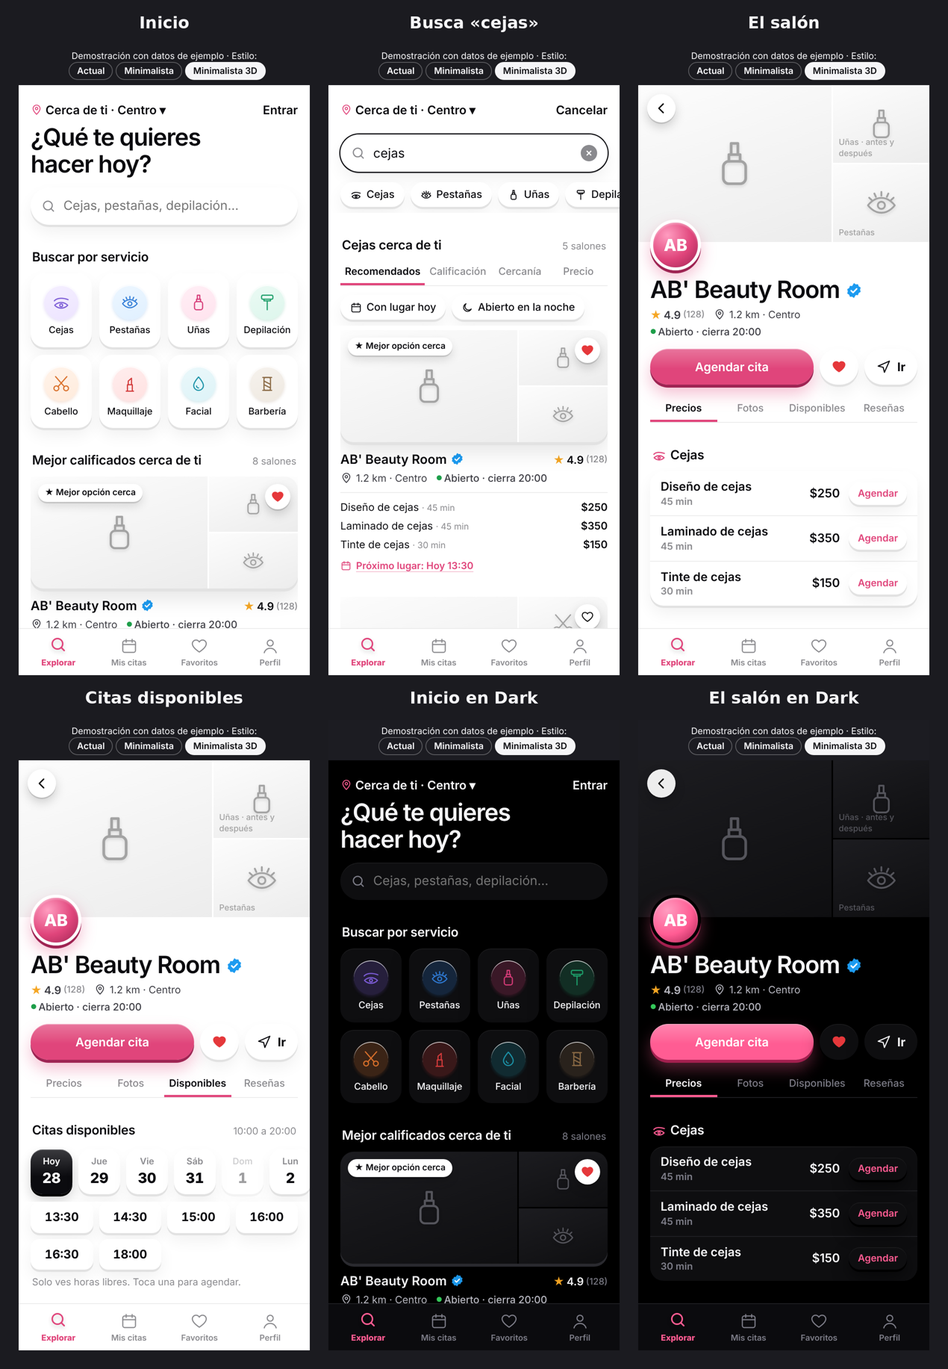
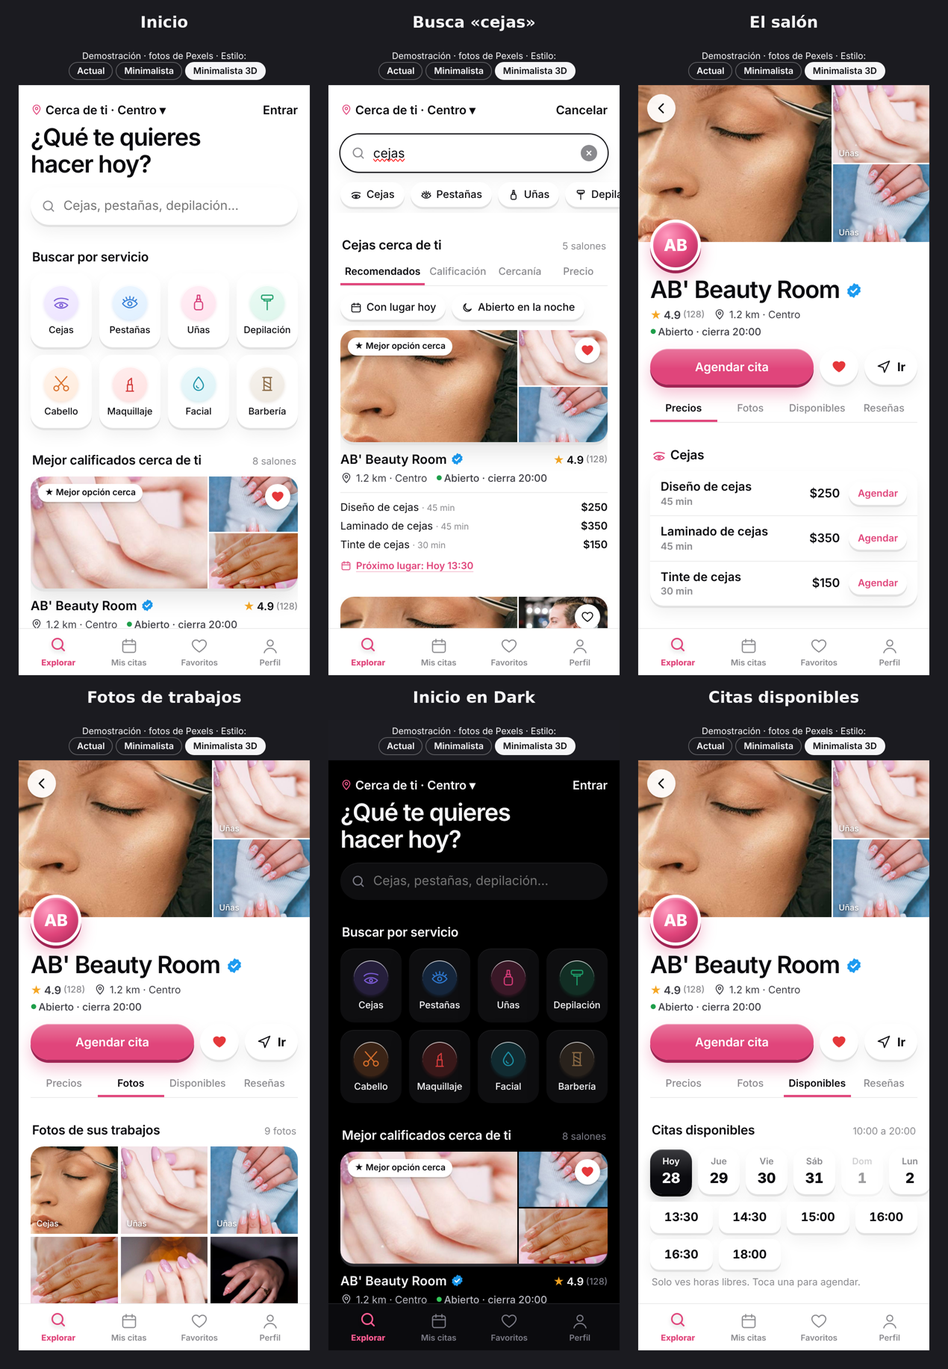
Fotos reales de ejemplo (Pexels) en Explorar y Social
22 fotos de cortes, barbas, uñas, pestañas, cejas y color, recortadas y
comprimidas, con sus créditos en ritmo/fotos/CREDITOS.md.

Claude-Session: https://claude.ai/code/session_01364FYb5aXB2p36M33N5fWn

diff --git a/ritmo/social/index.html b/ritmo/social/index.html
@@ -59,6 +59,7 @@ main { padding-bottom: calc(96px + env(safe-area-inset-bottom, 0px)); }
 .follow.on { color: var(--ink3); }
 .media { position: relative; display: block; width: 100%; aspect-ratio: 4 / 5; max-width: 100%; border: 0; padding: 0; overflow: hidden; background: var(--tile); }
 .media svg.art { width: 100%; height: 100%; display: block; }
+img.art { width: 100%; height: 100%; display: block; object-fit: cover; }
 .media .chipimg { position: absolute; left: 12px; top: 12px; padding: 5px 10px; border-radius: 999px; background: rgba(255, 255, 255, .92); color: #0B0B0F; font-size: 12px; font-weight: 700; box-shadow: 0 2px 8px rgba(0, 0, 0, .15); }
 .media .ilus { position: absolute; right: 10px; top: 12px; padding: 3px 8px; border-radius: 6px; background: rgba(0, 0, 0, .45); color: #fff; font-size: 10.5px; font-weight: 600; }
 .book { position: absolute; left: 12px; right: 12px; bottom: 12px; display: flex; align-items: center; gap: 10px; padding: 9px 9px 9px 14px; border-radius: 18px; background: rgba(255, 255, 255, .94); color: #0B0B0F; box-shadow: 0 8px 22px rgba(0, 0, 0, .18); backdrop-filter: blur(10px); }
@@ -152,7 +153,7 @@ textarea.in { min-height: 84px; resize: vertical; }
 </style>
 
 <div class="phone">
-  <div class="note">Demostración · negocios y publicaciones de ejemplo; las ilustraciones van donde irán las fotos reales</div>
+  <div class="note">Demostración · negocios de ejemplo con fotos de Pexels (licencia libre)</div>
   <main id="screen" aria-live="polite"></main>
 </div>
 <nav class="tabbar" id="tabbar" aria-label="Secciones"></nav>
@@ -271,7 +272,7 @@ textarea.in { min-height: 84px; resize: vertical; }
       cejas: { skin, skin2, brow: ['#3A2A1E', '#2B2018', '#5A3E2B'][i % 3], iris: ['#6B4B2A', '#3E6B4F', '#4B5E7A'][i % 3] },
       pestanas: { skin, skin2, brow: '#3A2A1E', len: 26 + (i % 3) * 6, lid: ['#E0457B', '#9B7BFF', '#C68C62'][i % 3] },
       color: { bg1: ['#FBEFE6', '#EDE4FF'][i % 2], bg2: ['#EAD3C2', '#D6C6FF'][i % 2], h1: ['#3A2A1E', '#2B2018'][i % 2], h2: ['#8A5A3B', '#7A4E35'][i % 2], h3: ['#E8C08A', '#F0D3A8'][i % 2], cape: '#0B0B0F' } })[tipo]; };
-  const arte = p => ART[p.tipo](v(p.tipo, p.var));
+  const arte = p => p.foto ? `<img class="art" src="fotos/${p.foto}.jpg" alt="${esc(p.srv)}, foto de ejemplo" loading="lazy">` : ART[p.tipo](v(p.tipo, p.var));
 
   /* ---------- Datos de ejemplo ---------- */
   const CATS = [['cortes', 'Cortes', 'scissors', '#D9702B', ['fade']], ['barberia', 'Barbería', 'barber', '#8A6A45', ['fade', 'barba']], ['unas', 'Uñas', 'unas', '#D63C78', ['unas']],
@@ -290,27 +291,34 @@ textarea.in { min-height: 84px; resize: vertical; }
     glam: { n: 'Glam House', u: 'glamhouse', ini: 'GH', av: 'linear-gradient(150deg,#FCD34D,#D97706)', tipo: 'Salón de belleza', km: 0.8, r: 4.6, rev: 203, seg: 2210, ver: true,
       serv: [['Balayage', 150, 1450], ['Tinte completo', 120, 850], ['Corte y peinado', 60, 330]] },
   };
+  // Fotos de ejemplo de Pexels (licencia libre); en la app real cada negocio sube las suyas.
   let POSTS = [
-    { id: 1, neg: 'chuy', tipo: 'fade', var: 0, srv: 'Fade con diseño', txt: 'Fade bajo con línea de diseño. Agenda el tuyo desde aquí.', tags: ['fade', 'barberia', 'cortes'], likes: 412, com: 38, t: 'hace 2 h' },
-    { id: 2, neg: 'ab', tipo: 'unas', var: 0, srv: 'Uñas acrílicas', txt: 'Acrílicas rosa con brillo para esta semana de fiesta.', tags: ['unas', 'acrilicas'], likes: 268, com: 21, t: 'hace 3 h' },
-    { id: 3, neg: 'lash', tipo: 'pestanas', var: 2, srv: 'Extensiones de volumen', txt: 'Volumen ruso, natural y ligero.', tags: ['pestanas', 'extensiones'], likes: 530, com: 44, t: 'hace 5 h' },
-    { id: 4, neg: 'fade', tipo: 'barba', var: 0, srv: 'Barba con toalla caliente', txt: 'Perfilado de barba con toalla caliente.', tags: ['barba', 'barberia'], likes: 198, com: 12, t: 'hace 6 h' },
-    { id: 5, neg: 'glam', tipo: 'color', var: 0, srv: 'Balayage', txt: 'Balayage miel sobre castaño. Antes y después en historias.', tags: ['color', 'balayage', 'cabello'], likes: 721, com: 63, t: 'hace 8 h' },
-    { id: 6, neg: 'ab', tipo: 'cejas', var: 1, srv: 'Diseño de cejas', txt: 'Diseño con hilo y tinte. Cejas que enmarcan.', tags: ['cejas', 'diseno'], likes: 233, com: 17, t: 'ayer' },
-    { id: 7, neg: 'bella', tipo: 'unas', var: 1, srv: 'Uñas en gel', txt: 'Gel lila con puntitos.', tags: ['unas', 'gel'], likes: 305, com: 19, t: 'ayer' },
-    { id: 8, neg: 'fade', tipo: 'fade', var: 1, srv: 'Fade bajo', txt: 'Mid fade clásico.', tags: ['fade', 'cortes', 'barberia'], likes: 287, com: 15, t: 'ayer' },
-    { id: 9, neg: 'lash', tipo: 'cejas', var: 0, srv: 'Laminado de cejas', txt: 'Laminado: cejas peinadas hasta 6 semanas.', tags: ['cejas', 'laminado'], likes: 389, com: 29, t: 'hace 2 días' },
-    { id: 10, neg: 'ab', tipo: 'pestanas', var: 0, srv: 'Lifting de pestañas', txt: 'Lifting + tinte, sin extensiones.', tags: ['pestanas', 'lifting'], likes: 344, com: 26, t: 'hace 2 días' },
-    { id: 11, neg: 'chuy', tipo: 'barba', var: 1, srv: 'Corte y barba', txt: 'Corte y barba completo, como debe ser.', tags: ['barba', 'cortes', 'barberia'], likes: 256, com: 14, t: 'hace 3 días' },
-    { id: 12, neg: 'bella', tipo: 'unas', var: 3, srv: 'Gelish en pies', txt: 'Pedicure con gelish naranja.', tags: ['unas', 'pies'], likes: 141, com: 8, t: 'hace 3 días' },
-    { id: 13, neg: 'glam', tipo: 'color', var: 1, srv: 'Tinte completo', txt: 'Rubio cenizo con matiz.', tags: ['color', 'cabello'], likes: 402, com: 31, t: 'hace 4 días' },
-    { id: 14, neg: 'chuy', tipo: 'fade', var: 2, srv: 'Corte de cabello', txt: 'Corte clásico con tijera.', tags: ['cortes', 'barberia'], likes: 176, com: 9, t: 'hace 5 días' },
-    { id: 15, neg: 'ab', tipo: 'unas', var: 2, srv: 'Gelish en manos', txt: 'Gelish azul cielo.', tags: ['unas', 'gelish'], likes: 212, com: 11, t: 'hace 6 días' },
+    { id: 1, neg: 'chuy', foto: 12464838, srv: 'Fade con diseño', txt: 'Fade bajo con línea a navaja. Agenda el tuyo desde aquí.', tags: ['fade', 'barberia', 'cortes'], likes: 412, com: 38, t: 'hace 2 h' },
+    { id: 2, neg: 'ab', foto: 939835, srv: 'Uñas acrílicas', txt: 'Acrílicas rosa con brillo para esta semana de fiesta.', tags: ['unas', 'acrilicas'], likes: 268, com: 21, t: 'hace 3 h' },
+    { id: 3, neg: 'lash', foto: 8554941, srv: 'Extensiones de volumen', txt: 'Volumen ruso, natural y ligero.', tags: ['pestanas', 'extensiones'], likes: 530, com: 44, t: 'hace 5 h' },
+    { id: 4, neg: 'fade', foto: 897262, srv: 'Barba con toalla caliente', txt: 'Perfilado de barba con navaja.', tags: ['barba', 'barberia'], likes: 198, com: 12, t: 'hace 6 h' },
+    { id: 5, neg: 'glam', foto: 8468127, srv: 'Balayage', txt: 'Balayage con papel aluminio. Antes y después en historias.', tags: ['color', 'balayage', 'cabello'], likes: 721, com: 63, t: 'hace 8 h' },
+    { id: 6, neg: 'ab', foto: 5177994, srv: 'Diseño de cejas', txt: 'Diseño de cejas con pinza. Cejas que enmarcan.', tags: ['cejas', 'diseno'], likes: 233, com: 17, t: 'ayer' },
+    { id: 7, neg: 'bella', foto: 939836, srv: 'Uñas en gel', txt: 'Gel lila con un dedo de brillo.', tags: ['unas', 'gel'], likes: 305, com: 19, t: 'ayer' },
+    { id: 8, neg: 'fade', foto: 12706272, srv: 'Fade bajo', txt: 'Mid fade clásico con raya marcada.', tags: ['fade', 'cortes', 'barberia'], likes: 287, com: 15, t: 'ayer' },
+    { id: 9, neg: 'lash', foto: 5128220, srv: 'Lifting de pestañas', txt: 'Lifting: pestañas hacia arriba hasta 8 semanas.', tags: ['pestanas', 'lifting'], likes: 389, com: 29, t: 'hace 2 días' },
+    { id: 10, neg: 'ab', foto: 17471377, srv: 'Uñas acrílicas', txt: 'Francés difuminado con detalle floral.', tags: ['unas', 'acrilicas'], likes: 344, com: 26, t: 'hace 2 días' },
+    { id: 11, neg: 'chuy', foto: 10024234, srv: 'Arreglo de barba', txt: 'Barba larga, solo perfilado y forma.', tags: ['barba', 'barberia'], likes: 256, com: 14, t: 'hace 3 días' },
+    { id: 12, neg: 'bella', foto: 7066258, srv: 'Uñas en gel', txt: 'Gel de colores con puntitos.', tags: ['unas', 'gel'], likes: 141, com: 8, t: 'hace 3 días' },
+    { id: 13, neg: 'glam', foto: 3356211, srv: 'Tinte completo', txt: 'Cobrizo intenso, liso y con brillo.', tags: ['color', 'cabello'], likes: 402, com: 31, t: 'hace 4 días' },
+    { id: 14, neg: 'chuy', foto: 4625615, srv: 'Corte y barba', txt: 'Corte y barba con máquina, como debe ser.', tags: ['cortes', 'barba', 'barberia'], likes: 176, com: 9, t: 'hace 5 días' },
+    { id: 15, neg: 'ab', foto: 16363470, srv: 'Gelish en manos', txt: 'Gelish nude con brillo dorado.', tags: ['unas', 'gelish'], likes: 212, com: 11, t: 'hace 6 días' },
+    { id: 16, neg: 'fade', foto: 7697441, srv: 'Barba con toalla caliente', txt: 'Afeitado clásico con navaja.', tags: ['barba', 'barberia'], likes: 164, com: 7, t: 'hace 6 días' },
+    { id: 17, neg: 'glam', foto: 3993312, srv: 'Tinte completo', txt: 'Tinte castaño, aplicación con brocha.', tags: ['color', 'cabello'], likes: 133, com: 6, t: 'hace 1 semana' },
+    { id: 18, neg: 'bella', foto: 35031996, srv: 'Uñas acrílicas', txt: 'Almendradas con efecto mármol.', tags: ['unas', 'acrilicas'], likes: 289, com: 16, t: 'hace 1 semana' },
   ];
+  const TIPO_FOTO = { 12464838: 'fade', 12706272: 'fade', 4625615: 'barba', 897262: 'barba', 10024234: 'barba', 7697441: 'barba', 939835: 'unas', 939836: 'unas', 17471377: 'unas', 16363470: 'unas', 7066258: 'unas', 35031996: 'unas',
+    8554941: 'pestanas', 5128220: 'pestanas', 5177994: 'cejas', 8468127: 'color', 3356211: 'color', 3993312: 'color' };
+  POSTS.forEach(p => { p.tipo = TIPO_FOTO[p.foto]; });
   const precio = p => (NEG[p.neg].serv.find(s => s.srv === p.srv || s[0] === p.srv) || [])[2];
   const minutos = p => (NEG[p.neg].serv.find(s => s[0] === p.srv) || [])[1];
 
-  const S = { tab: 'inicio', q: '', cat: null, neg: null, ptab: 'trabajos', likes: new Set([2]), saves: new Set(), sigo: new Set(['ab', 'chuy']), citas: [], pub: { tipo: 'unas', var: 1, srv: null } };
+  const S = { tab: 'inicio', q: '', cat: null, neg: null, ptab: 'trabajos', likes: new Set([2]), saves: new Set(), sigo: new Set(['ab', 'chuy']), citas: [], pub: { foto: 17471377, srv: null } };
   let tt; const toast = m => { const t = $('#toast'); t.textContent = m; t.hidden = false; clearTimeout(tt); tt = setTimeout(() => t.hidden = true, 2600); };
   const sheet = h => { $('#sheetCard').innerHTML = h; $('#sheet').hidden = false; };
   const cerrar = () => { $('#sheet').hidden = true; };
@@ -321,7 +329,7 @@ textarea.in { min-height: 84px; resize: vertical; }
     return `<article class="post"><div class="ph pad" style="padding-left:16px;padding-right:16px"><button type="button" class="av" style="--av:${n.av}" data-neg="${p.neg}" aria-label="${esc(n.n)}">${n.ini}</button>
       <button type="button" class="who" data-neg="${p.neg}"><b>${esc(n.n)}</b> ${n.ver ? VER : ''}<small>${n.tipo} · ${n.km.toFixed(1)} km</small></button>
       <button type="button" class="follow ${S.sigo.has(p.neg) ? 'on' : ''}" data-seguir="${p.neg}">${S.sigo.has(p.neg) ? 'Siguiendo' : 'Seguir'}</button></div>
-      <div class="media"><button type="button" data-ver="${p.id}" style="all:unset;display:block;width:100%;height:100%;cursor:pointer" aria-label="Ver publicación">${arte(p)}</button><span class="ilus">Ilustración</span>
+      <div class="media"><button type="button" data-ver="${p.id}" style="all:unset;display:block;width:100%;height:100%;cursor:pointer" aria-label="Ver publicación">${arte(p)}</button><span class="ilus">Foto: Pexels</span>
         <div class="book"><span class="l"><b>${esc(p.srv)}</b><small>${pr ? money(pr) : ''} · ${minutos(p) || 45} min · ${esc(n.n)}</small></span><button type="button" class="btnr" data-agendar="${p.id}">Agendar</button></div></div>
       <div class="acts"><button type="button" class="${lk ? 'liked' : ''}" data-like="${p.id}" aria-label="Me gusta">${I('heart')}${k(p.likes + (lk ? 1 : 0))}</button><button type="button" data-ver="${p.id}" aria-label="Comentarios">${I('chat')}${p.com}</button>
         <button type="button" data-act="compartir" aria-label="Compartir">${I('send')}</button><span class="sp"></span><button type="button" class="${sv ? 'saved' : ''}" data-save="${p.id}" aria-label="Guardar">${I('save')}</button></div>
@@ -371,10 +379,10 @@ textarea.in { min-height: 84px; resize: vertical; }
       <label class="t" for="tel">Tu WhatsApp</label><input class="in" id="tel" type="tel" inputmode="numeric" placeholder="55 1234 5678" autocomplete="tel-national">
       <div id="out" style="margin-top:14px"><button type="button" class="big" data-act="pedir" data-n="${neg}" data-s="${esc(s[0])}">Pedir cita · ${money(s[2])}</button><p class="foot">El negocio la confirma por WhatsApp. Sin crear cuenta.</p></div>`); };
   const publicar = () => { const n = NEG.ab, pb = S.pub; if (!pb.srv) pb.srv = n.serv[0][0];
-    const OP = [['unas', 1], ['unas', 3], ['pestanas', 1], ['cejas', 2], ['color', 0], ['unas', 0], ['cejas', 0], ['pestanas', 2]];
+    const OP = [939835, 17471377, 16363470, 939836, 35031996, 5128220, 8554941, 5177994];
     sheet(`<div class="sh-nav"><button type="button" data-act="cerrar">Cancelar</button><b>Nuevo trabajo</b><button type="button" data-act="publicar" style="font-weight:700">Publicar</button></div>
-      <div class="prev">${ART[pb.tipo](v(pb.tipo, pb.var))}</div>
-      <label class="t">Elige la foto (en la app: cámara o galería)</label><div class="picks">${OP.map(([t, i]) => `<button type="button" data-pick="${t}:${i}" aria-pressed="${pb.tipo === t && pb.var === i}">${ART[t](v(t, i))}</button>`).join('')}</div>
+      <div class="prev">${arte({ foto: pb.foto, srv: pb.srv })}</div>
+      <label class="t">Elige la foto (en la app: cámara o galería)</label><div class="picks">${OP.map(f => `<button type="button" data-pick="${f}" aria-pressed="${pb.foto === f}">${arte({ foto: f, srv: 'Foto' })}</button>`).join('')}</div>
       <label class="t">¿Qué servicio es?</label><div class="chips" style="flex-wrap:wrap;margin:0;padding:0">${n.serv.map(([s, m, p]) => `<button type="button" class="chip" data-psrv="${esc(s)}" aria-pressed="${pb.srv === s}">${esc(s)} · ${money(p)}</button>`).join('')}</div>
       <label class="t" for="ptxt">Descripción</label><textarea class="in" id="ptxt" placeholder="Cuéntales qué hiciste: colores, técnica, duración…">Acrílicas con brillo, listas para el fin de semana.</textarea>
       <p class="foot">Con el servicio ligado, la gente puede agendar exactamente esto desde la foto. Aparece en tu perfil, en el inicio de tus seguidores y en las búsquedas.</p>`); };
@@ -404,7 +412,7 @@ textarea.in { min-height: 84px; resize: vertical; }
     if (d.agendarneg) { agendar(d.agendarneg); return; }
     if (d.agendarsrv) { agendar(S.neg, d.agendarsrv); return; }
     if (d.hora) { b.parentElement.querySelectorAll('.slot').forEach(x => x.setAttribute('aria-pressed', String(x === b))); return; }
-    if (d.pick) { const [t, i] = d.pick.split(':'); S.pub.tipo = t; S.pub.var = +i; const txt = $('#ptxt').value; publicar(); $('#ptxt').value = txt; return; }
+    if (d.pick) { S.pub.foto = +d.pick; const txt = $('#ptxt').value; publicar(); $('#ptxt').value = txt; return; }
     if (d.psrv) { S.pub.srv = d.psrv; const txt = $('#ptxt').value; publicar(); $('#ptxt').value = txt; return; }
     switch (d.act) {
       case 'cerrar': cerrar(); break;
@@ -412,7 +420,7 @@ textarea.in { min-height: 84px; resize: vertical; }
       case 'limpiar': ir({ q: '', cat: null }); break;
       case 'nuevo': publicar(); break;
       case 'publicar': { const t = $('#ptxt').value.trim() || 'Nuevo trabajo.'; const pb = S.pub;
-        POSTS.unshift({ id: Date.now(), neg: 'ab', tipo: pb.tipo, var: pb.var, srv: pb.srv, txt: t, tags: [pb.tipo === 'color' ? 'color' : pb.tipo, 'abbeautyroom'], likes: 0, com: 0, t: 'ahora' });
+        POSTS.unshift({ id: Date.now(), neg: 'ab', foto: pb.foto, tipo: TIPO_FOTO[pb.foto], srv: pb.srv, txt: t, tags: [TIPO_FOTO[pb.foto], 'abbeautyroom'], likes: 0, com: 0, t: 'ahora' });
         cerrar(); ir({ tab: 'inicio', neg: null }); toast('Publicado en tu perfil y en el inicio de tus seguidores'); break; }
       case 'pedir': { const t = $('#tel').value.replace(/\D/g, ''); if (t.length !== 10) { toast('Escribe tu WhatsApp a 10 dígitos'); $('#tel').focus(); break; }
         const h = $('#sheetCard .slot[aria-pressed="true"]').dataset.hora; S.citas.unshift({ neg: d.n, srv: d.s, dia: 'jue 30', h });

diff --git a/ritmo/explorar/index.html b/ritmo/explorar/index.html
@@ -286,12 +286,14 @@ html[data-estilo="min"][data-prof="3d"] .ver path:first-child { fill: #1D9BF0; }
 html[data-estilo="min"][data-prof="3d"] .banner { background: linear-gradient(135deg, var(--rosaSoft), var(--card) 70%); }
 html[data-estilo="min"][data-prof="3d"] .banner button { background: linear-gradient(180deg, color-mix(in srgb, var(--rosa) 75%, #fff), var(--rosa) 55%); color: #fff; box-shadow: 0 3px 0 var(--rosaEdge); }
 html[data-estilo="min"][data-prof="3d"] .logo { background: radial-gradient(circle at 32% 28%, #FF9CC0, var(--rosa) 55%, var(--rosaEdge)); box-shadow: 0 4px 0 var(--rosaEdge), 0 10px 20px color-mix(in srgb, var(--rosa) 35%, transparent), inset 0 2px 2px rgba(255, 255, 255, .35); }
+.ph.foto img { position: absolute; inset: 0; width: 100%; height: 100%; object-fit: cover; }
+.ph.foto small { z-index: 1; color: #fff !important; text-shadow: 0 1px 3px rgba(0, 0, 0, .6) !important; }
 .toast { position: fixed; z-index: 50; left: 50%; bottom: calc(96px + env(safe-area-inset-bottom, 0px)); transform: translateX(-50%); width: max-content; max-width: calc(100% - 32px);
   padding: 11px 16px; border-radius: 14px; background: var(--ink); color: var(--bg); font-size: 14px; font-weight: 600; box-shadow: 0 10px 24px rgba(0, 0, 0, .25); }
 </style>
 
 <div class="phone">
-  <div class="note">Demostración con datos de ejemplo · Estilo: <span class="estilo" role="group" aria-label="Estilo"><button type="button" data-estilo="base">Actual</button><button type="button" data-estilo="min">Minimalista</button><button type="button" data-estilo="min3d">Minimalista 3D</button></span></div>
+  <div class="note">Demostración · fotos de Pexels · Estilo: <span class="estilo" role="group" aria-label="Estilo"><button type="button" data-estilo="base">Actual</button><button type="button" data-estilo="min">Minimalista</button><button type="button" data-estilo="min3d">Minimalista 3D</button></span></div>
   <main id="screen" aria-live="polite"></main>
 </div>
 <nav class="tabbar" id="tabbar" role="tablist" aria-label="Secciones"></nav>
@@ -366,7 +368,13 @@ html[data-estilo="min"][data-prof="3d"] .logo { background: radial-gradient(circ
     for (let t = 600; t <= 1110; t += 30) { if (d === 0 && t < 13 * 60 + 30) continue; if (semilla(s.id + d + t, 10) < 5) out.push(String(Math.floor(t / 60)).padStart(2, '0') + ':' + String(t % 60).padStart(2, '0')); }
     return out; };
   const proxima = s => { for (let d = 0; d < 7; d++) { const l = libres(s, d); if (l.length) return (d === 0 ? 'Hoy' : d === 1 ? 'Mañana' : DIAS[d][0] + ' ' + DIAS[d][1]) + ' ' + l[0]; } return 'Sin lugares esta semana'; };
-  const fotos = s => s.cats.flatMap(c => [[CAT[c][2], CAT[c][1]], [CAT[c][2], CAT[c][1] + ' · antes y después']]).slice(0, 9);
+  // Fotos de ejemplo de Pexels (licencia libre) por categoría; en la app real cada salón sube las suyas.
+  const FOTOS = { barberia: [12706272, 12464838, 10024234, 897262, 4625615, 7697441, 6007400, 1319461, 7697316], unas: [939835, 17471377, 16363470, 939836, 35031996, 7066258],
+    pestanas: [8554941, 5128220], cejas: [5177994], cabello: [8468127, 3356211, 3993311, 3993312] };
+  const fotos = s => { const off = SALONES.indexOf(s), out = [], q = consulta(), con = s.cats.filter(c => FOTOS[c]).sort((a, b) => q ? q.cats.includes(b) - q.cats.includes(a) : 0), sin = s.cats.filter(c => !FOTOS[c]);
+    con.forEach(c => FOTOS[c].forEach((id, j) => out.push(['f:' + FOTOS[c][(j + off) % FOTOS[c].length], CAT[c][1]])));
+    sin.forEach(c => out.push([CAT[c][2], CAT[c][1]]));
+    const vistos = new Set(); return out.filter(x => !vistos.has(x[0]) && vistos.add(x[0])).slice(0, 9); };
   const RESENAS = [['Mariana R.', 5, 'Me encantó el resultado, súper puntual y muy limpio el lugar.', 'hace 3 días'], ['Sofía L.', 5, 'Muy profesionales, ya es mi lugar de confianza.', 'hace 1 semana'],
     ['Fernanda C.', 4, 'Muy bien el trabajo; tuve que esperar 10 minutos.', 'hace 2 semanas'], ['Paola V.', 5, 'Agendé desde la app en un minuto y me llegó el recordatorio.', 'hace 1 mes']];
 
@@ -385,7 +393,7 @@ html[data-estilo="min"][data-prof="3d"] .logo { background: radial-gradient(circ
     const key = { reco: x => -puntaje(x.s), rating: x => -bayes(x.s), cerca: x => x.s.km, precio: x => Math.min(...x.m.map(y => y.p)) }[S.orden];
     return l.sort((a, b) => key(a) - key(b)); };
 
-  const ph = (s, e, lbl) => `<span class="ph" style="--c1:${s.c1};--c2:${s.c2}">${I(e, 'phi')}${lbl ? `<small>${esc(lbl)}</small>` : ''}</span>`;
+  const ph = (s, e, lbl) => `<span class="ph${e.startsWith('f:') ? ' foto' : ''}" style="--c1:${s.c1};--c2:${s.c2}">${e.startsWith('f:') ? `<img src="fotos/${e.slice(2)}.jpg" alt="${esc(lbl || 'Trabajo de ' + s.n)}, foto de ejemplo" loading="lazy">` : I(e, 'phi')}${lbl ? `<small>${esc(lbl)}</small>` : ''}</span>`;
   const estrellas = s => `<span class="rate"><span class="s">★</span>${s.r.toFixed(1)} <small>(${s.rev})</small></span>`;
   const tarjeta = ({ s, m }, i) => { const f = fotos(s), c = consulta();
     return `<button type="button" class="card" data-salon="${s.id}">
@@ -489,7 +497,7 @@ html[data-estilo="min"][data-prof="3d"] .logo { background: radial-gradient(circ
     if (d.dia2) { S.dia = +d.dia2; S.hora = null; agendar(); render(); return; }
     if (d.hora2) { S.hora = d.hora2; agendar(); return; }
     if (d.foto) { const s = SALONES.find(x => x.id === S.salon), [em, l] = fotos(s)[+d.foto];
-      sheet(`<div class="sh-nav"><button type="button" data-act="cerrar">Cerrar</button><b>${esc(s.n)}</b><span style="width:52px"></span></div><div style="aspect-ratio:1;max-width:100%;border-radius:18px;overflow:hidden">${ph(s, em, l).replace('class="ph"', 'class="ph" style="width:100%;height:100%;--c1:' + s.c1 + ';--c2:' + s.c2 + '"')}</div><p class="foot">${esc(l)} · foto de ejemplo</p><button type="button" class="btn fill" data-act="agendar" style="width:100%;margin-top:12px">Quiero algo así · Agendar</button>`); return; }
+      sheet(`<div class="sh-nav"><button type="button" data-act="cerrar">Cerrar</button><b>${esc(s.n)}</b><span style="width:52px"></span></div><div style="aspect-ratio:1;max-width:100%;border-radius:18px;overflow:hidden">${ph(s, em, l).replace('<span class="ph', '<span style="width:100%;height:100%;--c1:' + s.c1 + ';--c2:' + s.c2 + '" class="ph')}</div><p class="foot">${esc(l)} · foto de ejemplo</p><button type="button" class="btn fill" data-act="agendar" style="width:100%;margin-top:12px">Quiero algo así · Agendar</button>`); return; }
     switch (d.act) {
       case 'limpiar': ir({ q: '', cat: null }); break;
       case 'atras': ir({ salon: null }); break;

diff --git a/ritmo/fotos/CREDITOS.md b/ritmo/fotos/CREDITOS.md
@@ -1,0 +1,30 @@
+# Fotos de ejemplo
+
+Fotos de [Pexels](https://www.pexels.com), con su licencia libre: se pueden usar gratis, también comercialmente, sin pedir permiso. El crédito no es obligatorio, pero se agradece. Se usan solo como ejemplo en los prototipos de Explorar y Social. En la app real, cada negocio sube sus propias fotos.
+
+Se recortaron a 600 × 750 px y se comprimieron.
+
+| Archivo | Tema | Fotógrafo (si se conoce) | Original |
+|---|---|---|---|
+| 12464838.jpg | Fade con navaja | — | https://www.pexels.com/photo/12464838/ |
+| 12706272.jpg | Corte fade de perfil | — | https://www.pexels.com/photo/12706272/ |
+| 4625615.jpg | Corte y barba con máquina | — | https://www.pexels.com/photo/4625615/ |
+| 897262.jpg | Perfilado de barba | — | https://www.pexels.com/photo/897262/ |
+| 10024234.jpg | Arreglo de barba | — | https://www.pexels.com/photo/10024234/ |
+| 7697441.jpg | Afeitado con navaja | RDNE Stock project | https://www.pexels.com/photo/7697441/ |
+| 7697316.jpg | Barba con máquina | RDNE Stock project | https://www.pexels.com/photo/7697316/ |
+| 6007400.jpg | Afeitado con toalla | Alexandre Saraiva Carniato | https://www.pexels.com/photo/6007400/ |
+| 1319461.jpg | Navaja en barba | Nikolaos Dimou | https://www.pexels.com/photo/1319461/ |
+| 939835.jpg | Uñas rosa | Valeria Boltneva | https://www.pexels.com/photo/939835/ |
+| 939836.jpg | Uñas lila | Valeria Boltneva | https://www.pexels.com/photo/939836/ |
+| 16363470.jpg | Uñas nude con brillo | Oswal Darks | https://www.pexels.com/photo/16363470/ |
+| 17471377.jpg | Francés con detalle | — | https://www.pexels.com/photo/17471377/ |
+| 35031996.jpg | Uñas almendradas | Salim Da | https://www.pexels.com/photo/35031996/ |
+| 7066258.jpg | Uñas de colores | — | https://www.pexels.com/photo/7066258/ |
+| 8554941.jpg | Extensiones de pestañas | Екатерина Мясоед | https://www.pexels.com/photo/8554941/ |
+| 5128220.jpg | Pestañas en cabina | Nataliya Vaitkevich | https://www.pexels.com/photo/5128220/ |
+| 5177994.jpg | Diseño de cejas | Antoni Shkraba | https://www.pexels.com/photo/5177994/ |
+| 8468127.jpg | Balayage con aluminio | — | https://www.pexels.com/photo/8468127/ |
+| 3356211.jpg | Color cobrizo | — | https://www.pexels.com/photo/3356211/ |
+| 3993311.jpg | Tinte en salón | — | https://www.pexels.com/photo/3993311/ |
+| 3993312.jpg | Aplicación de tinte | — | https://www.pexels.com/photo/3993312/ |
